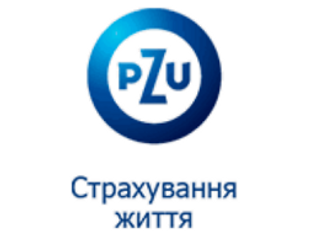
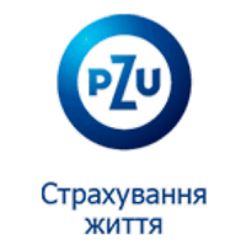
Партнери: логотипи страхових без зайвих полів, крупніше

Changed region(s): [[0.2258, 0.0295, 0.7903, 0.6203], [0.1411, 0.7089, 0.8468, 0.9747], [0.4234, 0.5021, 0.4516, 0.5316]]

diff --git a/partners.html b/partners.html
@@ -4,4 +4,4 @@
     .partners-facts div{padding-top:16px;border-top:1px solid var(--line)}
     .partners-facts strong{display:block;font-size:1.0625rem;color:var(--ink)}
     .partners-facts p{margin:5px 0 0;font-size:.9375rem;line-height:1.6;color:var(--muted)}
-    @media(max-width:950px){.partners-head{grid-template-columns:1fr;gap:34px}}.partners-band{margin-top:44px}.partners-band .site-band{height:clamp(170px,16.5vw,238px)}.partners-band .site-band img{object-position:center 51.5%}.partners-shelf{padding:34px 0 60px;background:linear-gradient(180deg,#172638 0%,#121d2b 45%,#0e1720 100%)}.partners-grid{display:grid;grid-template-columns:repeat(4,1fr);gap:22px}.partner-card{display:flex;min-height:250px;padding:22px;background:#fff;border:0;border-radius:3px;flex-direction:column;text-decoration:none;color:var(--ink);box-shadow:10px 14px 28px rgba(0,0,0,.42),2px 3px 8px rgba(0,0,0,.28);transition:transform .18s ease,box-shadow .18s ease}.partner-card:hover{transform:translateY(-5px);box-shadow:14px 20px 40px rgba(0,0,0,.5),3px 4px 10px rgba(0,0,0,.3)}.partner-card:focus-within{outline:2px solid var(--lime);outline-offset:3px}@media(prefers-reduced-motion:reduce){.partner-card{transition:none}.partner-card:hover{transform:none}}.partner-card img{width:100%;height:110px;object-fit:contain;margin-bottom:14px}.partner-card h3{margin:0 0 14px}.partner-links{margin-top:auto;display:flex;flex-direction:column;gap:8px}.partner-links a{font-weight:600;text-decoration:none}.partner-links a:hover{text-decoration:underline}.partner-note{margin-top:46px;max-width:900px;font-size:14px;line-height:1.6}@media(max-width:1050px){.partners-top{height:auto;min-height:78px}.partners-top-inner{width:calc(100% - 32px);padding:14px 0;flex-wrap:wrap}.partners-top-logo img{width:150px}.partners-top-menu{display:block}.partners-top-nav{display:none;width:100%;flex-direction:column;align-items:flex-start;gap:16px;padding:12px 0}.partners-top-nav.open{display:flex}.partners-top-nav a.active{padding-bottom:4px}.partners-top-meeting{display:inline-block}}@media(max-width:900px){.partners-grid{grid-template-columns:repeat(2,1fr)}}@media(max-width:520px){.partners-grid{grid-template-columns:1fr}.partners-page{padding:40px 0}.partners-band{margin-top:30px}.partners-shelf{padding:26px 0 42px}}</style></head><body><header class="partners-top"><div class="partners-top-inner"><a class="partners-top-logo" href="index.html" aria-label="Компаньйон — на головну"><img src="presentation-assets/companion-logo.png" alt="Страхове бюро Компаньйон" width="2172" height="724"></a><button class="partners-top-menu" type="button" aria-expanded="false" aria-controls="partners-top-nav">Меню</button><nav class="partners-top-nav" id="partners-top-nav" aria-label="Сайт"><a href="index.html#solutions">Напрями</a><a href="dms.html">Медичне страхування</a><a href="about.html">Про нас</a><a class="active" href="partners.html">Страхові компанії</a><a href="app.html">Застосунок</a><a class="partners-top-meeting" href="index.html#meeting">Домовитися про зустріч ↗</a></nav></div></header><main><section class="partners-page"><div class="shell"><div class="partners-head"><div><p class="section-kicker">Партнери</p><h1 class="section-title">Страхові компанії та страхові продукти</h1><p class="lead partners-intro">Працюємо зі страховими компаніями України. Для кожної компанії нижче наведено посилання на її офіційний ресурс та сторінку з інформацією про страхові продукти. Умови конкретного продукту визначаються документами відповідної страхової компанії.</p></div><aside class="partners-facts" aria-label="Коротко про партнерство"><div><strong>19 компаній</strong><p>Із цими страховими компаніями ми працюємо і залучаємо їх до тендерів.</p></div><div><strong>Без спільних часток</strong><p>Ми не володіємо частками у їхньому капіталі, і жодна з них не володіє часткою в нас.</p></div><div><strong>Вибір за вами</strong><p>Ми показуємо ринок і пояснюємо відмінності. Страхову компанію обирає ваша компанія.</p></div></aside></div></div><div class="partners-band"><div class="site-band site-band--bright" aria-hidden="true"><img src="presentation-assets/partners-market.jpg" alt="" width="1500" height="844" loading="lazy" decoding="async"></div></div><div class="partners-shelf"><div class="shell"><div class="partners-grid" id="partners"></div></div></div><div class="shell"><div class="partner-note"><p>ТОВ «СТРАХОВЕ БЮРО «КОМПАНЬЙОН» не володіє прямо або опосередковано частками у статутному капіталі страхових та/або перестрахових компаній, представлених на цій сторінці. Страхові та/або перестрахові компанії, представлені на цій сторінці, не володіють прямо або опосередковано частками у статутному капіталі ТОВ «СТРАХОВЕ БЮРО «КОМПАНЬЙОН».</p></div></div></section></main><footer class="site-footer"><div class="shell footer-bottom"><span>© Страхове бюро «Компаньйон»</span><a href="insurance-products.html">Страхові продукти</a><a href="regulatory.html">Розкриття інформації</a></div></footer><script>const W='';const p=[['PZU','presentation-assets/insurers/pzu.jpg','https://pzu.com.ua/','Туризм за кордоном','https://pzu.com.ua/admin/upload/2024/upload/document_za_productom_turizm_za_kordonom.pdf'],['PZU Life','presentation-assets/insurers/pzu-life.png','https://pzu.com.ua/individual/life.html','Страхування життя','https://pzu.com.ua/corporate/insurancestaff/life.html'],['ІНГО','presentation-assets/insurers/ingo.jpg','https://ingo.ua/publichna-ta-finansova-informacziya','Страхові продукти','https://ingo.ua/strakhovi-produkty'],['ARX','presentation-assets/insurers/arx.jpg','https://arx.com.ua/publichna-ta-finansova-informatsiya','Страхові продукти','https://arx.com.ua/publichna-ta-finansova-informatsiya'],['УСГ','presentation-assets/insurers/usg.jpg','https://usg.ua/about/','Страхові продукти','https://usg.ua/about/strakhovi-produkty/'],['Colonnade','presentation-assets/insurers/colonnade.jpg','https://colonnade.com.ua/','Страхові продукти','https://colonnade.com.ua/insurance_conditions'],['Перша','presentation-assets/insurers/persha.png','https://persha.ua/dlja-vas/','Для бізнесу','https://persha.ua/dlja-biznesa/'],['Європейський страховий альянс','presentation-assets/insurers/esa.jpg','https://eia.com.ua/','Продукти','https://eia.com.ua/uk/about/info/products'],['TAS Life','presentation-assets/insurers/tas-life.png','https://taslife.com.ua/','Продукти','https://taslife.com.ua/'],['Універсальна','presentation-assets/insurers/universalna.jpg','https://universalna.com/','Страхові продукти','https://universalna.com/insurance-products/'],['Країна','presentation-assets/insurers/kraina.jpg','https://krayina.com/','Страхові продукти','https://krayina.com/page/strakhovi-produkti'],['VUSO','presentation-assets/insurers/vuso.jpg','https://vuso.ua/','Інформація та продукти','https://vuso.ua/informations'],['Княжа','presentation-assets/insurers/knyazha.jpg','https://kniazha.ua/','Страхові продукти','https://kniazha.ua/about/strakhovi-produkty'],['Арсенал Страхування','presentation-assets/insurers/arsenal.jpg','https://arsenal-ic.ua/','Страхові продукти','https://arsenal-ic.ua/documents/insurance-products'],['Allianz','presentation-assets/insurers/allianz.jpg','https://allianz.ua/','Страхові продукти','https://allianz.ua/uk_UA/vidpovidna-informaciya-dokumenti/strakhovi-produkty.html'],['СГ «ТАС»','presentation-assets/insurers/tas.jpg','https://sgtas.ua/company/','Страхові продукти','https://sgtas.ua/company/insurance_products/'],['UNIQA','presentation-assets/insurers/uniqa.jpg','https://uniqa.ua/','Страхові продукти','https://uniqa.ua/insurance-products/'],['Євроінс','presentation-assets/insurers/euroins.png','https://euroins.com.ua/','Страхові продукти','https://euroins.com.ua/informaciya-dlya-kliyentiv#insurances'],['Трансмагістраль','presentation-assets/insurers/transmagistral.jpg?v=2','https://www.transmagistral.com.ua/','Страхові продукти','https://www.transmagistral.com.ua/general-terms-and-conditions-of-the-insurance-product/']];document.getElementById('partners').innerHTML=p.map(x=>`<article class="partner-card"><img src="${W+x[1]}" alt="${x[0]}" loading="lazy"><h3>${x[0]}</h3><div class="partner-links"><a href="${x[2]}" target="_blank" rel="noreferrer">Сайт компанії ↗</a><a href="${x[4]}" target="_blank" rel="noreferrer">${x[3]} ↗</a></div></article>`).join('');const menu=document.querySelector('.partners-top-menu'),nav=document.querySelector('#partners-top-nav');if(menu&&nav){menu.addEventListener('click',()=>{const open=nav.classList.toggle('open');menu.setAttribute('aria-expanded',String(open));});}</script></body></html>
+    @media(max-width:950px){.partners-head{grid-template-columns:1fr;gap:34px}}.partners-band{margin-top:44px}.partners-band .site-band{height:clamp(170px,16.5vw,238px)}.partners-band .site-band img{object-position:center 51.5%}.partners-shelf{padding:34px 0 60px;background:linear-gradient(180deg,#172638 0%,#121d2b 45%,#0e1720 100%)}.partners-grid{display:grid;grid-template-columns:repeat(4,1fr);gap:22px}.partner-card{display:flex;min-height:250px;padding:22px;background:#fff;border:0;border-radius:3px;flex-direction:column;text-decoration:none;color:var(--ink);box-shadow:10px 14px 28px rgba(0,0,0,.42),2px 3px 8px rgba(0,0,0,.28);transition:transform .18s ease,box-shadow .18s ease}.partner-card:hover{transform:translateY(-5px);box-shadow:14px 20px 40px rgba(0,0,0,.5),3px 4px 10px rgba(0,0,0,.3)}.partner-card:focus-within{outline:2px solid var(--lime);outline-offset:3px}@media(prefers-reduced-motion:reduce){.partner-card{transition:none}.partner-card:hover{transform:none}}.partner-card img{width:100%;height:110px;object-fit:contain;margin-bottom:14px}.partner-card h3{margin:0 0 14px}.partner-links{margin-top:auto;display:flex;flex-direction:column;gap:8px}.partner-links a{font-weight:600;text-decoration:none}.partner-links a:hover{text-decoration:underline}.partner-note{margin-top:46px;max-width:900px;font-size:14px;line-height:1.6}@media(max-width:1050px){.partners-top{height:auto;min-height:78px}.partners-top-inner{width:calc(100% - 32px);padding:14px 0;flex-wrap:wrap}.partners-top-logo img{width:150px}.partners-top-menu{display:block}.partners-top-nav{display:none;width:100%;flex-direction:column;align-items:flex-start;gap:16px;padding:12px 0}.partners-top-nav.open{display:flex}.partners-top-nav a.active{padding-bottom:4px}.partners-top-meeting{display:inline-block}}@media(max-width:900px){.partners-grid{grid-template-columns:repeat(2,1fr)}}@media(max-width:520px){.partners-grid{grid-template-columns:1fr}.partners-page{padding:40px 0}.partners-band{margin-top:30px}.partners-shelf{padding:26px 0 42px}}</style></head><body><header class="partners-top"><div class="partners-top-inner"><a class="partners-top-logo" href="index.html" aria-label="Компаньйон — на головну"><img src="presentation-assets/companion-logo.png" alt="Страхове бюро Компаньйон" width="2172" height="724"></a><button class="partners-top-menu" type="button" aria-expanded="false" aria-controls="partners-top-nav">Меню</button><nav class="partners-top-nav" id="partners-top-nav" aria-label="Сайт"><a href="index.html#solutions">Напрями</a><a href="dms.html">Медичне страхування</a><a href="about.html">Про нас</a><a class="active" href="partners.html">Страхові компанії</a><a href="app.html">Застосунок</a><a class="partners-top-meeting" href="index.html#meeting">Домовитися про зустріч ↗</a></nav></div></header><main><section class="partners-page"><div class="shell"><div class="partners-head"><div><p class="section-kicker">Партнери</p><h1 class="section-title">Страхові компанії та страхові продукти</h1><p class="lead partners-intro">Працюємо зі страховими компаніями України. Для кожної компанії нижче наведено посилання на її офіційний ресурс та сторінку з інформацією про страхові продукти. Умови конкретного продукту визначаються документами відповідної страхової компанії.</p></div><aside class="partners-facts" aria-label="Коротко про партнерство"><div><strong>19 компаній</strong><p>Із цими страховими компаніями ми працюємо і залучаємо їх до тендерів.</p></div><div><strong>Без спільних часток</strong><p>Ми не володіємо частками у їхньому капіталі, і жодна з них не володіє часткою в нас.</p></div><div><strong>Вибір за вами</strong><p>Ми показуємо ринок і пояснюємо відмінності. Страхову компанію обирає ваша компанія.</p></div></aside></div></div><div class="partners-band"><div class="site-band site-band--bright" aria-hidden="true"><img src="presentation-assets/partners-market.jpg" alt="" width="1500" height="844" loading="lazy" decoding="async"></div></div><div class="partners-shelf"><div class="shell"><div class="partners-grid" id="partners"></div></div></div><div class="shell"><div class="partner-note"><p>ТОВ «СТРАХОВЕ БЮРО «КОМПАНЬЙОН» не володіє прямо або опосередковано частками у статутному капіталі страхових та/або перестрахових компаній, представлених на цій сторінці. Страхові та/або перестрахові компанії, представлені на цій сторінці, не володіють прямо або опосередковано частками у статутному капіталі ТОВ «СТРАХОВЕ БЮРО «КОМПАНЬЙОН».</p></div></div></section></main><footer class="site-footer"><div class="shell footer-bottom"><span>© Страхове бюро «Компаньйон»</span><a href="insurance-products.html">Страхові продукти</a><a href="regulatory.html">Розкриття інформації</a></div></footer><script>const W='';const p=[['PZU','presentation-assets/insurers/pzu.jpg?v=2','https://pzu.com.ua/','Туризм за кордоном','https://pzu.com.ua/admin/upload/2024/upload/document_za_productom_turizm_za_kordonom.pdf'],['PZU Life','presentation-assets/insurers/pzu-life.png?v=2','https://pzu.com.ua/individual/life.html','Страхування життя','https://pzu.com.ua/corporate/insurancestaff/life.html'],['ІНГО','presentation-assets/insurers/ingo.jpg?v=2','https://ingo.ua/publichna-ta-finansova-informacziya','Страхові продукти','https://ingo.ua/strakhovi-produkty'],['ARX','presentation-assets/insurers/arx.jpg','https://arx.com.ua/publichna-ta-finansova-informatsiya','Страхові продукти','https://arx.com.ua/publichna-ta-finansova-informatsiya'],['УСГ','presentation-assets/insurers/usg.jpg?v=2','https://usg.ua/about/','Страхові продукти','https://usg.ua/about/strakhovi-produkty/'],['Colonnade','presentation-assets/insurers/colonnade.jpg?v=2','https://colonnade.com.ua/','Страхові продукти','https://colonnade.com.ua/insurance_conditions'],['Перша','presentation-assets/insurers/persha.png?v=2','https://persha.ua/dlja-vas/','Для бізнесу','https://persha.ua/dlja-biznesa/'],['Європейський страховий альянс','presentation-assets/insurers/esa.jpg?v=2','https://eia.com.ua/','Продукти','https://eia.com.ua/uk/about/info/products'],['TAS Life','presentation-assets/insurers/tas-life.png?v=2','https://taslife.com.ua/','Продукти','https://taslife.com.ua/'],['Універсальна','presentation-assets/insurers/universalna.jpg?v=2','https://universalna.com/','Страхові продукти','https://universalna.com/insurance-products/'],['Країна','presentation-assets/insurers/kraina.jpg?v=2','https://krayina.com/','Страхові продукти','https://krayina.com/page/strakhovi-produkti'],['VUSO','presentation-assets/insurers/vuso.jpg?v=2','https://vuso.ua/','Інформація та продукти','https://vuso.ua/informations'],['Княжа','presentation-assets/insurers/knyazha.jpg?v=2','https://kniazha.ua/','Страхові продукти','https://kniazha.ua/about/strakhovi-produkty'],['Арсенал Страхування','presentation-assets/insurers/arsenal.jpg?v=2','https://arsenal-ic.ua/','Страхові продукти','https://arsenal-ic.ua/documents/insurance-products'],['Allianz','presentation-assets/insurers/allianz.jpg?v=2','https://allianz.ua/','Страхові продукти','https://allianz.ua/uk_UA/vidpovidna-informaciya-dokumenti/strakhovi-produkty.html'],['СГ «ТАС»','presentation-assets/insurers/tas.jpg?v=2','https://sgtas.ua/company/','Страхові продукти','https://sgtas.ua/company/insurance_products/'],['UNIQA','presentation-assets/insurers/uniqa.jpg','https://uniqa.ua/','Страхові продукти','https://uniqa.ua/insurance-products/'],['Євроінс','presentation-assets/insurers/euroins.png','https://euroins.com.ua/','Страхові продукти','https://euroins.com.ua/informaciya-dlya-kliyentiv#insurances'],['Трансмагістраль','presentation-assets/insurers/transmagistral.jpg?v=2','https://www.transmagistral.com.ua/','Страхові продукти','https://www.transmagistral.com.ua/general-terms-and-conditions-of-the-insurance-product/']];document.getElementById('partners').innerHTML=p.map(x=>`<article class="partner-card"><img src="${W+x[1]}" alt="${x[0]}" loading="lazy"><h3>${x[0]}</h3><div class="partner-links"><a href="${x[2]}" target="_blank" rel="noreferrer">Сайт компанії ↗</a><a href="${x[4]}" target="_blank" rel="noreferrer">${x[3]} ↗</a></div></article>`).join('');const menu=document.querySelector('.partners-top-menu'),nav=document.querySelector('#partners-top-nav');if(menu&&nav){menu.addEventListener('click',()=>{const open=nav.classList.toggle('open');menu.setAttribute('aria-expanded',String(open));});}</script></body></html>

diff --git a/index.html b/index.html
@@ -11,4 +11,4 @@
 })();
 </script><meta name="theme-color" content="#142a46"><title>Страхове бюро «Компаньйон» — страхування для бізнесу</title><link rel="icon" href="presentation-assets/companion-logo.png"><link rel="stylesheet" href="styles.css"><link rel="stylesheet" href="home.css"><link rel="preconnect" href="https://fonts.googleapis.com"><link rel="preconnect" href="https://fonts.gstatic.com" crossorigin><link href="https://fonts.googleapis.com/css2?family=Playfair+Display:ital,wght@1,500&display=swap" rel="stylesheet"><link rel="stylesheet" href="nh.css?v=5"><link rel="preload" as="image" href="presentation-assets/home/hero.jpg"><style>.site-nav a{transition:transform .16s ease,color .16s ease,border-color .16s ease}.site-nav a:hover{transform:translateY(-4px)}@media(prefers-reduced-motion:reduce){.site-nav a{transition:none}}.site-nav a.nav-active{color:#245dce;border-color:#245dce;transform:translateY(-4px)}body:not(.about-page) .signature{display:none!important}.about-page .person:first-child img{width:250px!important;height:250px!important;object-fit:contain!important;object-position:center!important;border-radius:50%!important;padding:26px!important;background:#e7eaef!important;clip-path:none!important}@media(max-width:700px){.about-page .person:first-child img{width:180px!important;height:180px!important;padding:18px!important}}</style></head><body>
 <a class="skip-link" href="#content">Перейти до основного контенту</a><header class="site-header"><div class="shell header-inner"><a class="brand" href="index.html" aria-label="Страхове бюро «Компаньйон» — на головну"><img src="presentation-assets/companion-logo.png" alt="Страхове бюро «Компаньйон»" width="2172" height="724"></a><button class="menu-toggle" type="button" aria-expanded="false" aria-controls="site-nav">Меню</button><nav id="site-nav" class="site-nav" aria-label="Сайт"><a href="index.html">Головна</a><a data-page="services" href="index.html?page=services">Послуги</a><a href="dms.html">Медичне страхування</a><a href="logistyka.html">Логістика</a><a href="yak-my-pratsyuyemo.html">Як працюємо</a><a data-page="about" href="about.html">Про нас</a><a href="partners.html">Страхові компанії</a><a href="app.html">Застосунок</a><a class="header-meeting" href="index.html#meeting">Домовитися про зустріч ↗</a></nav></div></header><main id="content"></main>
-<footer class="site-footer"><div class="shell footer-dock"><a class="footer-dock-phone" href="tel:+380501452605">+38 (050) 145 2605</a><button class="footer-toggle" type="button" aria-expanded="true" aria-controls="footer-body"><span class="footer-toggle-label">Згорнути</span><svg class="footer-chev" viewBox="0 0 24 24" aria-hidden="true" width="18" height="18"><path d="M6 9l6 6 6-6" fill="none" stroke="currentColor" stroke-width="2" stroke-linecap="round" stroke-linejoin="round"/></svg></button></div><div class="footer-body" id="footer-body"><div class="shell footer-bar"><div class="footer-col"><a class="footer-phone" href="tel:+380501452605">+38 (050) 145 2605</a><span class="footer-row"><a href="mailto:zapyt@icompanion.com.ua">zapyt@icompanion.com.ua</a><a href="https://t.me/EgorMuratov" target="_blank" rel="noreferrer">Telegram</a><a href="https://www.facebook.com/insurancebureaucompanion" target="_blank" rel="noreferrer">Facebook</a></span></div><div class="footer-col"><span class="footer-label footer-address">Робота</span><span class="footer-address">Уся Україна · зустрічі онлайн або у вас</span><span>Пн–пт, 09:00–18:00 · <a href="contacts.html">Контакти</a></span></div><div class="footer-col footer-legal"><span class="footer-label footer-address">ТОВ «Страхове бюро «Компаньйон»</span><span>Страховий брокер · ЄДРПОУ 39337363 · Реєстр страхових посередників НБУ № 00002449</span><span class="footer-row"><a href="regulatory.html">Розкриття інформації</a><a href="insurance-products.html">Страхові продукти</a><a href="privacy.html">Персональні дані</a></span></div></div></div></footer><script src="home.js?v=38"></script><script src="script.js?v=34"></script><script src="nh.js?v=3"></script><script>(()=>{const p=new URLSearchParams(location.search);if(!p.get('page')&&!location.hash){window.scrollTo({top:0,left:0,behavior:'instant'});}})();</script></body></html>
+<footer class="site-footer"><div class="shell footer-dock"><a class="footer-dock-phone" href="tel:+380501452605">+38 (050) 145 2605</a><button class="footer-toggle" type="button" aria-expanded="true" aria-controls="footer-body"><span class="footer-toggle-label">Згорнути</span><svg class="footer-chev" viewBox="0 0 24 24" aria-hidden="true" width="18" height="18"><path d="M6 9l6 6 6-6" fill="none" stroke="currentColor" stroke-width="2" stroke-linecap="round" stroke-linejoin="round"/></svg></button></div><div class="footer-body" id="footer-body"><div class="shell footer-bar"><div class="footer-col"><a class="footer-phone" href="tel:+380501452605">+38 (050) 145 2605</a><span class="footer-row"><a href="mailto:zapyt@icompanion.com.ua">zapyt@icompanion.com.ua</a><a href="https://t.me/EgorMuratov" target="_blank" rel="noreferrer">Telegram</a><a href="https://www.facebook.com/insurancebureaucompanion" target="_blank" rel="noreferrer">Facebook</a></span></div><div class="footer-col"><span class="footer-label footer-address">Робота</span><span class="footer-address">Уся Україна · зустрічі онлайн або у вас</span><span>Пн–пт, 09:00–18:00 · <a href="contacts.html">Контакти</a></span></div><div class="footer-col footer-legal"><span class="footer-label footer-address">ТОВ «Страхове бюро «Компаньйон»</span><span>Страховий брокер · ЄДРПОУ 39337363 · Реєстр страхових посередників НБУ № 00002449</span><span class="footer-row"><a href="regulatory.html">Розкриття інформації</a><a href="insurance-products.html">Страхові продукти</a><a href="privacy.html">Персональні дані</a></span></div></div></div></footer><script src="home.js?v=38"></script><script src="script.js?v=35"></script><script src="nh.js?v=3"></script><script>(()=>{const p=new URLSearchParams(location.search);if(!p.get('page')&&!location.hash){window.scrollTo({top:0,left:0,behavior:'instant'});}})();</script></body></html>

diff --git a/script.js b/script.js
@@ -1,20 +1,20 @@
 const partnerLogos=[
-  ["PZU","presentation-assets/insurers/pzu.jpg","https://www.pzu.com.ua/"],
-  ["PZU Life","presentation-assets/insurers/pzu-life.png","https://www.pzu.com.ua/individual/life.html"],
-  ["ІНГО","presentation-assets/insurers/ingo.jpg","https://ingo.ua/publichna-ta-finansova-informacziya"],
+  ["PZU","presentation-assets/insurers/pzu.jpg?v=2","https://www.pzu.com.ua/"],
+  ["PZU Life","presentation-assets/insurers/pzu-life.png?v=2","https://www.pzu.com.ua/individual/life.html"],
+  ["ІНГО","presentation-assets/insurers/ingo.jpg?v=2","https://ingo.ua/publichna-ta-finansova-informacziya"],
   ["ARX","presentation-assets/insurers/arx.jpg","https://arx.com.ua/publichna-ta-finansova-informatsiya"],
-  ["УСГ","presentation-assets/insurers/usg.jpg","https://www.usg.ua/about/"],
-  ["Colonnade","presentation-assets/insurers/colonnade.jpg","https://colonnade.com.ua/"],
-  ["Перша","presentation-assets/insurers/persha.png","https://persha.ua/dlja-vas/"],
-  ["EAS","presentation-assets/insurers/esa.jpg","https://eia.com.ua/"],
-  ["TAS Life","presentation-assets/insurers/tas-life.png","https://taslife.com.ua/"],
-  ["Універсальна","presentation-assets/insurers/universalna.jpg","https://universalna.com/"],
-  ["Країна","presentation-assets/insurers/kraina.jpg","https://krayina.com/"],
-  ["VUSO","presentation-assets/insurers/vuso.jpg","https://vuso.ua/"],
-  ["Княжа","presentation-assets/insurers/knyazha.jpg","https://kniazha.ua/"],
-  ["Арсенал","presentation-assets/insurers/arsenal.jpg","https://arsenal-ic.ua/"],
-  ["Allianz","presentation-assets/insurers/allianz.jpg","https://www.allianz.ua/"],
-  ["TAS","presentation-assets/insurers/tas.jpg","https://sgtas.ua/company/"],
+  ["УСГ","presentation-assets/insurers/usg.jpg?v=2","https://www.usg.ua/about/"],
+  ["Colonnade","presentation-assets/insurers/colonnade.jpg?v=2","https://colonnade.com.ua/"],
+  ["Перша","presentation-assets/insurers/persha.png?v=2","https://persha.ua/dlja-vas/"],
+  ["EAS","presentation-assets/insurers/esa.jpg?v=2","https://eia.com.ua/"],
+  ["TAS Life","presentation-assets/insurers/tas-life.png?v=2","https://taslife.com.ua/"],
+  ["Універсальна","presentation-assets/insurers/universalna.jpg?v=2","https://universalna.com/"],
+  ["Країна","presentation-assets/insurers/kraina.jpg?v=2","https://krayina.com/"],
+  ["VUSO","presentation-assets/insurers/vuso.jpg?v=2","https://vuso.ua/"],
+  ["Княжа","presentation-assets/insurers/knyazha.jpg?v=2","https://kniazha.ua/"],
+  ["Арсенал","presentation-assets/insurers/arsenal.jpg?v=2","https://arsenal-ic.ua/"],
+  ["Allianz","presentation-assets/insurers/allianz.jpg?v=2","https://www.allianz.ua/"],
+  ["TAS","presentation-assets/insurers/tas.jpg?v=2","https://sgtas.ua/company/"],
   ["UNIQA","presentation-assets/insurers/uniqa.jpg","https://uniqa.ua/"],
   ["Євроінс","presentation-assets/insurers/euroins.png","https://euroins.com.ua/"],
   ["Трансмагістраль","presentation-assets/insurers/transmagistral.jpg?v=2","https://www.transmagistral.com.ua/"]
